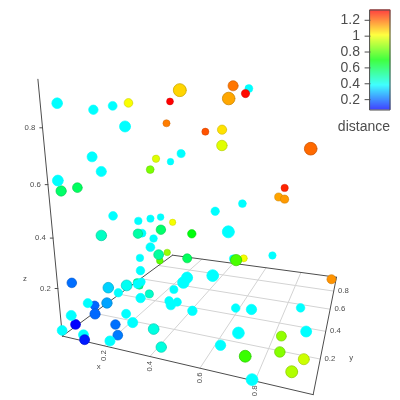
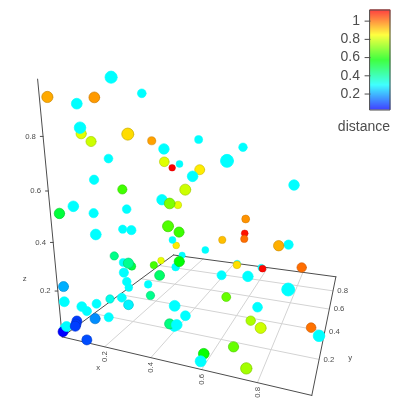
chore: update to 2a460e2c0410b6b0e2c18631f39c6cba0d948149 [ci skip]

diff --git a/esnext/esm/vis-graph3d.js b/esnext/esm/vis-graph3d.js
@@ -5,7 +5,7 @@
  * Create interactive, animated 3d graphs. Surfaces, lines, dots and block styling out of the box.
  *
  * @version 0.0.0-no-version
- * @date    2026-05-17T11:36:02.255Z
+ * @date    2026-05-17T12:51:14.276Z
  *
  * @copyright (c) 2011-2017 Almende B.V, http://almende.com
  * @copyright (c) 2017-2019 visjs contributors, https://github.com/visjs

diff --git a/esnext/esm/vis-graph3d.min.js b/esnext/esm/vis-graph3d.min.js
@@ -5,7 +5,7 @@
  * Create interactive, animated 3d graphs. Surfaces, lines, dots and block styling out of the box.
  *
  * @version 0.0.0-no-version
- * @date    2026-05-17T11:36:02.255Z
+ * @date    2026-05-17T12:51:14.276Z
  *
  * @copyright (c) 2011-2017 Almende B.V, http://almende.com
  * @copyright (c) 2017-2019 visjs contributors, https://github.com/visjs

diff --git a/esnext/umd/vis-graph3d.js b/esnext/umd/vis-graph3d.js
@@ -5,7 +5,7 @@
  * Create interactive, animated 3d graphs. Surfaces, lines, dots and block styling out of the box.
  *
  * @version 0.0.0-no-version
- * @date    2026-05-17T11:36:02.255Z
+ * @date    2026-05-17T12:51:14.276Z
  *
  * @copyright (c) 2011-2017 Almende B.V, http://almende.com
  * @copyright (c) 2017-2019 visjs contributors, https://github.com/visjs

diff --git a/esnext/umd/vis-graph3d.min.js b/esnext/umd/vis-graph3d.min.js
@@ -5,7 +5,7 @@
  * Create interactive, animated 3d graphs. Surfaces, lines, dots and block styling out of the box.
  *
  * @version 0.0.0-no-version
- * @date    2026-05-17T11:36:02.255Z
+ * @date    2026-05-17T12:51:14.276Z
  *
  * @copyright (c) 2011-2017 Almende B.V, http://almende.com
  * @copyright (c) 2017-2019 visjs contributors, https://github.com/visjs

diff --git a/peer/esm/vis-graph3d.js b/peer/esm/vis-graph3d.js
@@ -5,7 +5,7 @@
  * Create interactive, animated 3d graphs. Surfaces, lines, dots and block styling out of the box.
  *
  * @version 0.0.0-no-version
- * @date    2026-05-17T11:36:02.255Z
+ * @date    2026-05-17T12:51:14.276Z
  *
  * @copyright (c) 2011-2017 Almende B.V, http://almende.com
  * @copyright (c) 2017-2019 visjs contributors, https://github.com/visjs

diff --git a/peer/esm/vis-graph3d.min.js b/peer/esm/vis-graph3d.min.js
@@ -5,7 +5,7 @@
  * Create interactive, animated 3d graphs. Surfaces, lines, dots and block styling out of the box.
  *
  * @version 0.0.0-no-version
- * @date    2026-05-17T11:36:02.255Z
+ * @date    2026-05-17T12:51:14.276Z
  *
  * @copyright (c) 2011-2017 Almende B.V, http://almende.com
  * @copyright (c) 2017-2019 visjs contributors, https://github.com/visjs

diff --git a/peer/umd/vis-graph3d.js b/peer/umd/vis-graph3d.js
@@ -5,7 +5,7 @@
  * Create interactive, animated 3d graphs. Surfaces, lines, dots and block styling out of the box.
  *
  * @version 0.0.0-no-version
- * @date    2026-05-17T11:36:02.255Z
+ * @date    2026-05-17T12:51:14.276Z
  *
  * @copyright (c) 2011-2017 Almende B.V, http://almende.com
  * @copyright (c) 2017-2019 visjs contributors, https://github.com/visjs

diff --git a/peer/umd/vis-graph3d.min.js b/peer/umd/vis-graph3d.min.js
@@ -5,7 +5,7 @@
  * Create interactive, animated 3d graphs. Surfaces, lines, dots and block styling out of the box.
  *
  * @version 0.0.0-no-version
- * @date    2026-05-17T11:36:02.255Z
+ * @date    2026-05-17T12:51:14.276Z
  *
  * @copyright (c) 2011-2017 Almende B.V, http://almende.com
  * @copyright (c) 2017-2019 visjs contributors, https://github.com/visjs

diff --git a/standalone/esm/vis-graph3d.js b/standalone/esm/vis-graph3d.js
@@ -5,7 +5,7 @@
  * Create interactive, animated 3d graphs. Surfaces, lines, dots and block styling out of the box.
  *
  * @version 0.0.0-no-version
- * @date    2026-05-17T11:36:02.255Z
+ * @date    2026-05-17T12:51:14.276Z
  *
  * @copyright (c) 2011-2017 Almende B.V, http://almende.com
  * @copyright (c) 2017-2019 visjs contributors, https://github.com/visjs

diff --git a/standalone/esm/vis-graph3d.min.js b/standalone/esm/vis-graph3d.min.js
@@ -5,7 +5,7 @@
  * Create interactive, animated 3d graphs. Surfaces, lines, dots and block styling out of the box.
  *
  * @version 0.0.0-no-version
- * @date    2026-05-17T11:36:02.255Z
+ * @date    2026-05-17T12:51:14.276Z
  *
  * @copyright (c) 2011-2017 Almende B.V, http://almende.com
  * @copyright (c) 2017-2019 visjs contributors, https://github.com/visjs

diff --git a/standalone/umd/vis-graph3d.js b/standalone/umd/vis-graph3d.js
@@ -5,7 +5,7 @@
  * Create interactive, animated 3d graphs. Surfaces, lines, dots and block styling out of the box.
  *
  * @version 0.0.0-no-version
- * @date    2026-05-17T11:36:02.255Z
+ * @date    2026-05-17T12:51:14.276Z
  *
  * @copyright (c) 2011-2017 Almende B.V, http://almende.com
  * @copyright (c) 2017-2019 visjs contributors, https://github.com/visjs

diff --git a/standalone/umd/vis-graph3d.min.js b/standalone/umd/vis-graph3d.min.js
@@ -5,7 +5,7 @@
  * Create interactive, animated 3d graphs. Surfaces, lines, dots and block styling out of the box.
  *
  * @version 0.0.0-no-version
- * @date    2026-05-17T11:36:02.255Z
+ * @date    2026-05-17T12:51:14.276Z
  *
  * @copyright (c) 2011-2017 Almende B.V, http://almende.com
  * @copyright (c) 2017-2019 visjs contributors, https://github.com/visjs